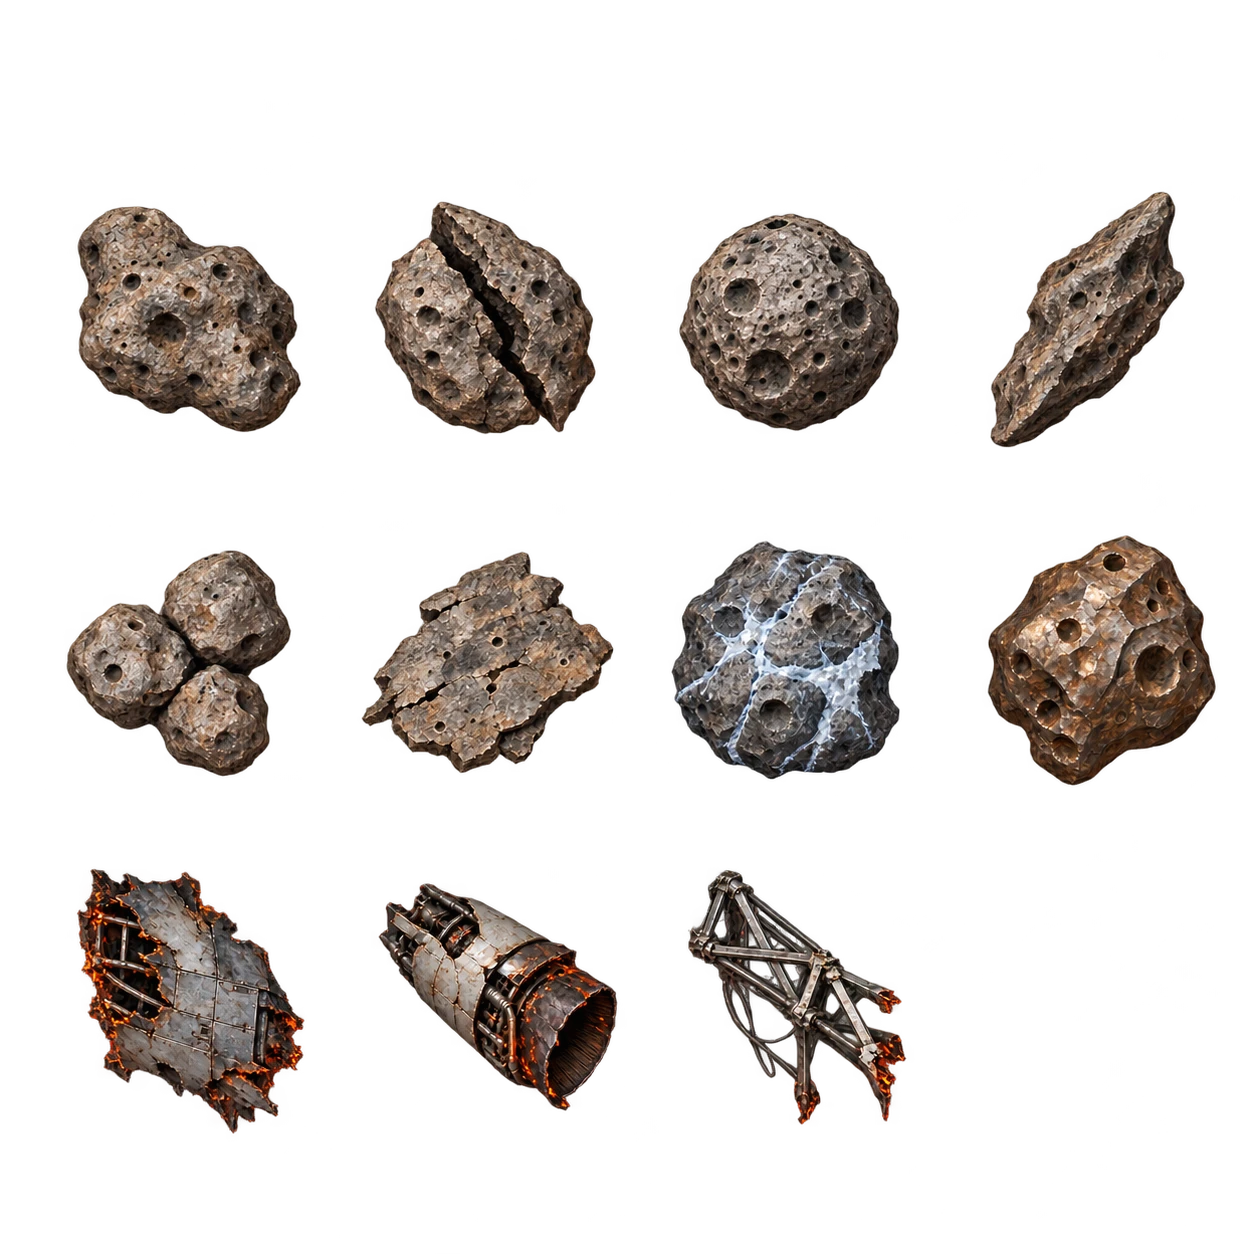
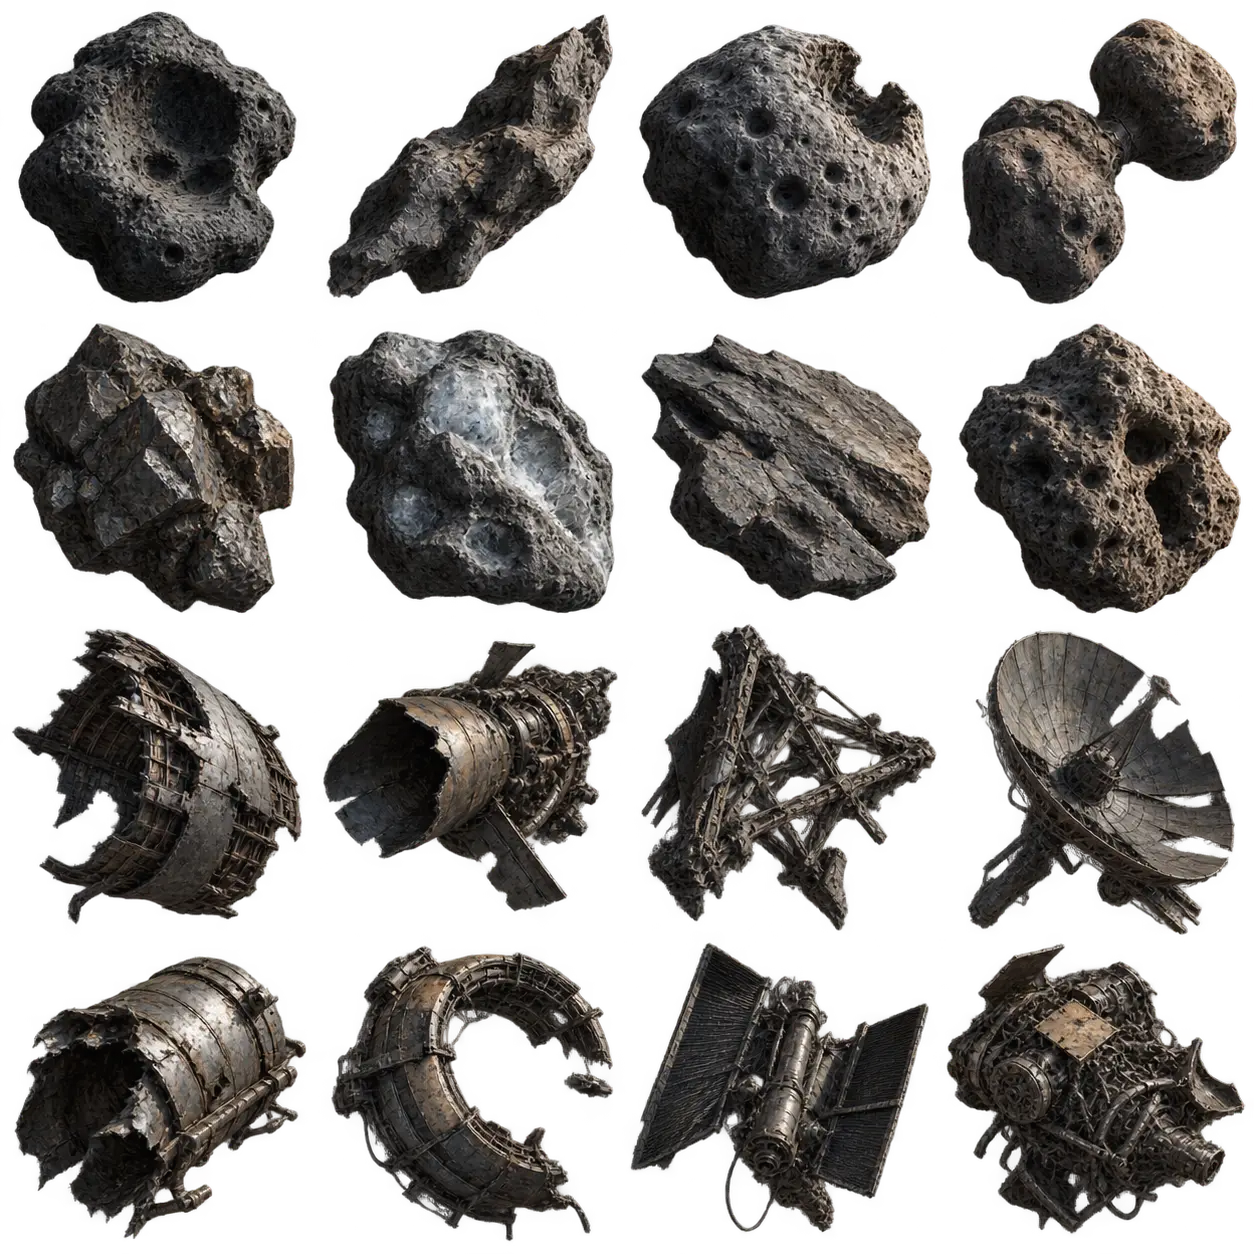
Combat board: the new darker rock and wreckage set (8 + 8), all eight rock designs in use, random wreckage per fragment
Claude-Session: https://claude.ai/code/session_01VaHNgRABppGA6sLw9QD8xo

diff --git a/js/ui/combat-fx.js b/js/ui/combat-fx.js
@@ -186,7 +186,7 @@
       for (const d of DEBRIS) {
         if (d.on) continue;
         const a = Math.random() * TAU, sp = len * (0.25 + Math.random() * 0.6);
-        d.on = true; d.x = x; d.y = y; d.vx = cos(a) * sp; d.vy = sin(a) * sp; d.rot = Math.random() * TAU; d.vr = (Math.random() - 0.5) * 3; d.age = 0; d.life = 2.6 + Math.random() * 1.6; d.s = len * (0.14 + Math.random() * 0.14); d.v = 1 + (n % 3);
+        d.on = true; d.x = x; d.y = y; d.vx = cos(a) * sp; d.vy = sin(a) * sp; d.rot = Math.random() * TAU; d.vr = (Math.random() - 0.5) * 3; d.age = 0; d.life = 2.6 + Math.random() * 1.6; d.s = len * (0.14 + Math.random() * 0.14); d.v = 1 + ((Math.random() * 8) | 0);   // any of the eight wreckage cutouts
         if (++n >= 4) break;
       }
       return true;
@@ -304,7 +304,7 @@
         if (bu.kind === 'planet') planetU = du;
         else if (G.Ships && G.Ships.prewarm) { try { G.Ships.prewarm(du.race, monsterHull(du), 128, du.color, du.flags, du.vkey || null); } catch (e) { /* optional */ } }
       }
-      rocks = B.rocks.map((r, i) => ({ x: r.x, y: r.y, v: (r.x * 7 + r.y * 13 + i) % 3, rot: ((r.x * 31 + r.y * 17) % 60) / 60 * TAU, spin: (((r.x + r.y * 3) % 5) - 2) * 0.03 + 0.02 }));
+      rocks = B.rocks.map((r, i) => ({ x: r.x, y: r.y, v: (r.x * 7 + r.y * 13 + i) % 3, art: (r.x * 7 + r.y * 13 + i * 3) % 8, rot: ((r.x * 31 + r.y * 17) % 60) / 60 * TAU, spin: (((r.x + r.y * 3) % 5) - 2) * 0.03 + 0.02 }));
       const st = S && S.stars && S.stars[B.star];
       backdrop = { star: (st && st.color) || 'yellow', seed: (B.star | 0) * 131 + (B.bg | 0) * 17 + 5, nebula: !!B.nebula || ((B.bg | 0) % 2 === 0), decor: planetU ? null : decorPlanet(), key: '' };
       if (view.ready) layout();
@@ -904,7 +904,7 @@
     function drawRocks() {
       const px = max(16, min(grid.cw * 0.9, grid.ch * 1.35)) | 0;
       for (const r of rocks) {
-        const im = WAfx('rock-' + (r.v % 8 + 1)), x = cx(r.x), y = cy(r.y);
+        const im = WAfx('rock-' + (r.art + 1)), x = cx(r.x), y = cy(r.y);   // art (0..7): one of the eight rendered rocks; v (0..2) the procedural fallback
         ctx.save(); ctx.translate(x, y); ctx.rotate(r.rot);
         if (im) { const s = px * 1.15, k = min(s / im.naturalWidth, s / im.naturalHeight); ctx.drawImage(im, -im.naturalWidth * k / 2, -im.naturalHeight * k / 2, im.naturalWidth * k, im.naturalHeight * k); }
         else ctx.drawImage(rockSprite(r.v, px, dpr), -px / 2, -px / 2, px, px);

diff --git a/js/gfx/worldart.js b/js/gfx/worldart.js
@@ -25,7 +25,7 @@
   // Batch-4 sprites / skies (docs/IMAGE-GEN-SPRITES.md) and batch-3 stills (docs/IMAGE-GEN-OTHER.md): looked up by the same rules,
   // so the callers below fall back to procedural art until the files exist in assets/art/.
   const BATTLE = ['planet', 'nebula', 'asteroids', 'star', 'deep'];
-  const FX = ['rock-1', 'rock-2', 'rock-3', 'rock-4', 'rock-5', 'rock-6', 'rock-7', 'rock-8', 'debris-1', 'debris-2', 'debris-3', 'base-platform'];
+  const FX = ['rock-1', 'rock-2', 'rock-3', 'rock-4', 'rock-5', 'rock-6', 'rock-7', 'rock-8', 'debris-1', 'debris-2', 'debris-3', 'debris-4', 'debris-5', 'debris-6', 'debris-7', 'debris-8', 'base-platform'];
   const STILLS = ['end-exile', 'inst-spaceport', 'title-key-art'];
   const has = (a, k) => a.indexOf(k) >= 0;
 

diff --git a/CHANGELOG.md b/CHANGELOG.md
@@ -5,9 +5,10 @@ Versions follow `MAJOR.MINOR.PATCH`; the live version is the `VERSION` file.
 
 ## Unreleased
 
-- Combat asteroids and wreckage are rendered cutouts: eight distinct rocks (cratered, split, clustered, icy, metallic …) replace the
-  grey procedural blobs on the battle board, and three wreckage pieces (hull plate, engine nacelle, truss) tumble away from kills.
-  Cut from one generated sheet (`MOOg images/fx/fx-sheet.png`) into `assets/art/fx/rock-*.webp` / `debris-*.webp`.
+- Combat asteroids and wreckage are rendered cutouts: eight distinct dark, rugged rocks replace the grey procedural blobs on the
+  battle board, and eight wreckage pieces (hull sections, a nacelle, a truss, a dish, a solar array …) tumble away from kills, picked
+  at random. Cut from one generated sheet (`MOOg images/fx/fx-sheet.png`) into `assets/art/fx/rock-*.webp` / `debris-*.webp`, colours
+  as delivered. Fixed on the way: the board only ever showed three of the rock designs (the variant was taken modulo 3).
 - Ships have their 3/4 view: nine rendered 3/4 "beauty" cutouts (one per hull class, `MOOg images/ship-variants/*-3q.png`, built
   into `assets/ships/ship-<class>-1-3q.webp` + team masks), recoloured to each empire's banner like the top-down set. They appear
   wherever the camera is not overhead: the design hologram, the system and colony cards, the bombers over the planet, the exile

diff --git a/docs/IMAGE-GEN-SHIPS-AND-COMBAT.md b/docs/IMAGE-GEN-SHIPS-AND-COMBAT.md
@@ -136,8 +136,9 @@ What the game does with them (`js/ui/combat-fx.js`):
   would point the wrong way most of the time.
 - **Small on screen.** They show at roughly **40–120 px**, so a strong silhouette and mid-tone values matter more than
   fine detail.
-- **Rocks and debris come as one sheet.** One prompt makes all eleven, which keeps them consistent; I cut the sheet
-  into `rock-1` … `rock-8` and `debris-1` … `debris-3`.
+- **Rocks and debris come as one sheet.** One prompt makes them all, which keeps them consistent. The delivered sheet is a 4×4
+  grid (rows 1–2 rocks, rows 3–4 wreckage), cut into `rock-1` … `rock-8` and `debris-1` … `debris-8`; the game uses up to eight
+  of each.
 - **The platform gets no magenta.** The game draws a pulsing glow in the empire's colour at its right edge instead.
 
 **Drop-in.** Put the files in `MOOg images/fx/` and I'll cut and convert them into `assets/art/fx/`. The game uses

diff --git a/ART-NEEDED.md b/ART-NEEDED.md
@@ -36,7 +36,7 @@ Full prompts for the ships, rocks, debris and platform: `docs/IMAGE-GEN-SHIPS-AN
 
 ### Asteroids and debris, top-down cutouts (11) — unlock: combat board rocks and kill debris
 - [x] `rock-1.png` … `rock-8.png` (eight distinct shapes; cut from `MOOg images/fx/fx-sheet.png`)
-- [x] `debris-1.png`, `debris-2.png`, `debris-3.png`
+- [x] `debris-1.png` … `debris-8.png` (eight pieces; the game picks one at random per fragment)
 
 ### Missile platform (1) — unlock: missile bases around the planet on the combat board
 - [ ] `base-platform.png`
